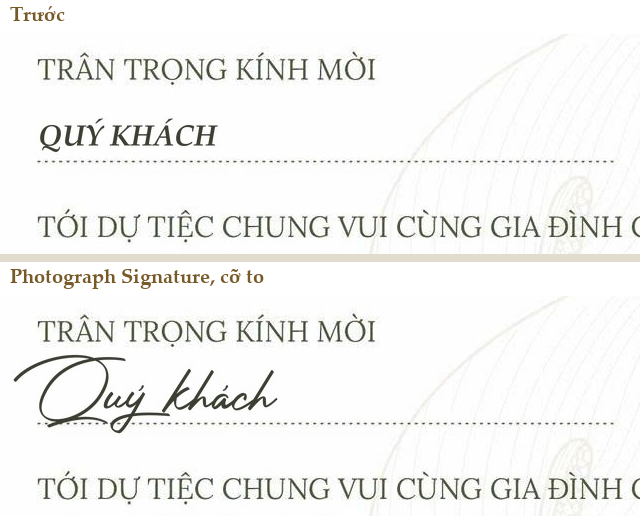
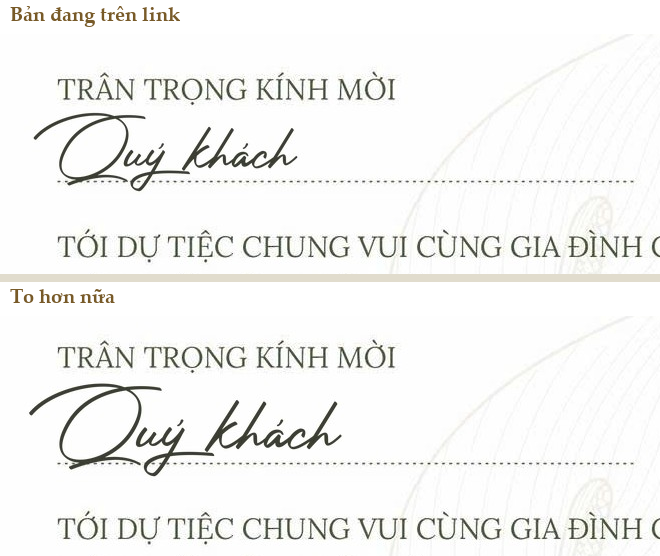
Chữ Quý khách to hơn nữa (cỡ 90), đẩy dòng Trân trọng kính mời lên 14px cho đủ chỗ

diff --git a/cong-cu/cat_thiep.py b/cong-cu/cat_thiep.py
@@ -138,7 +138,7 @@ if DOI_COT:
 #     phong-chu/PhotographSignature.otf — thư mục này không đưa lên GitHub).
 #     Phông vẽ nhầm chữ "ý" thành dấu mũ nên ghép chữ "y" với dấu sắc lấy từ chữ "á" của chính phông.
 PHONG_CHU_KY = GOC / "phong-chu" / "PhotographSignature.otf"
-CO_CHU_KY, DAY_CHU_KY = 76, 236     # cỡ chữ và hàng chân chữ (dòng chấm ở hàng 237)
+CO_CHU_KY, DAY_CHU_KY = 90, 237     # cỡ chữ và hàng chân chữ (dòng chấm ở hàng 237)
 if not PHONG_CHU_KY.exists():
     sys.exit(f"Thiếu phông {PHONG_CHU_KY} — tải theo hướng dẫn ở mục 2c trong file này.")
 
@@ -169,6 +169,16 @@ def lop_quy_khach(f, rong, cao, x, day):
     l[y0:y0 + sac.shape[0], x0:x0 + sac.shape[1]] = np.maximum(vung, sac)
     return Image.fromarray(l.astype(np.uint8))
 
+
+# Chữ "Quý khách" cỡ to cần thêm chỗ phía trên: đẩy dòng "TRÂN TRỌNG KÍNH MỜI" lên DAY_LEN điểm ảnh
+# (vùng này chỉ có chữ trên nền trắng, hoa rum nằm bên phải nên không bị ảnh hưởng)
+DAY_LEN, VUNG_TRAN_TRONG = 14, (88, 112, 448, 172)
+if DAY_LEN:
+    x0, y0, x1, y1 = VUNG_TRAN_TRONG
+    dong = mat_sau.crop((x0, y0, x1, y1))
+    nen_trang = Image.new("RGB", dong.size, tuple(int(v) for v in np.median(np.asarray(dong).reshape(-1, 3), axis=0)))
+    mat_sau.paste(nen_trang, (x0, y0))
+    mat_sau.paste(dong, (x0, y0 - DAY_LEN))
 
 K = 4
 f = ImageFont.truetype(str(PHONG_CHU_KY), CO_CHU_KY * K)
